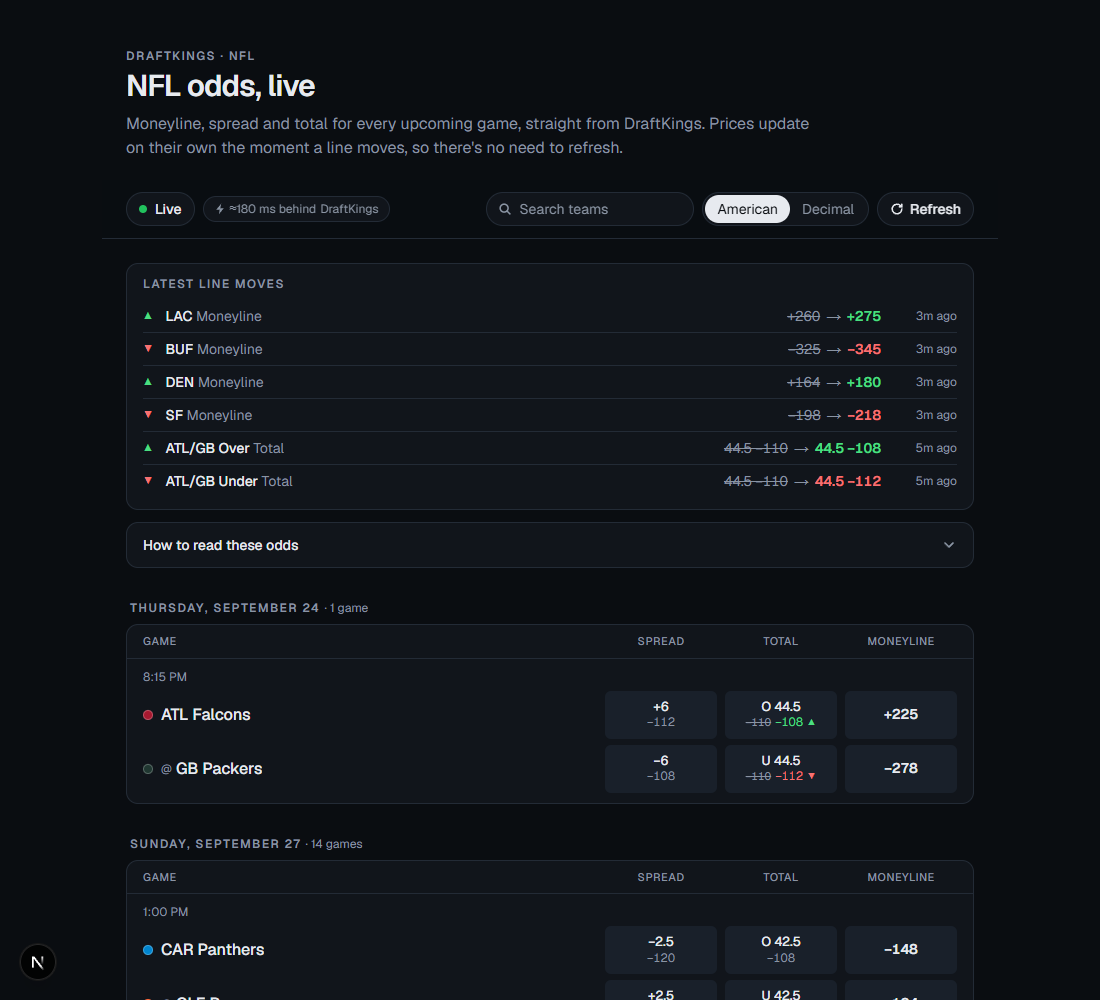
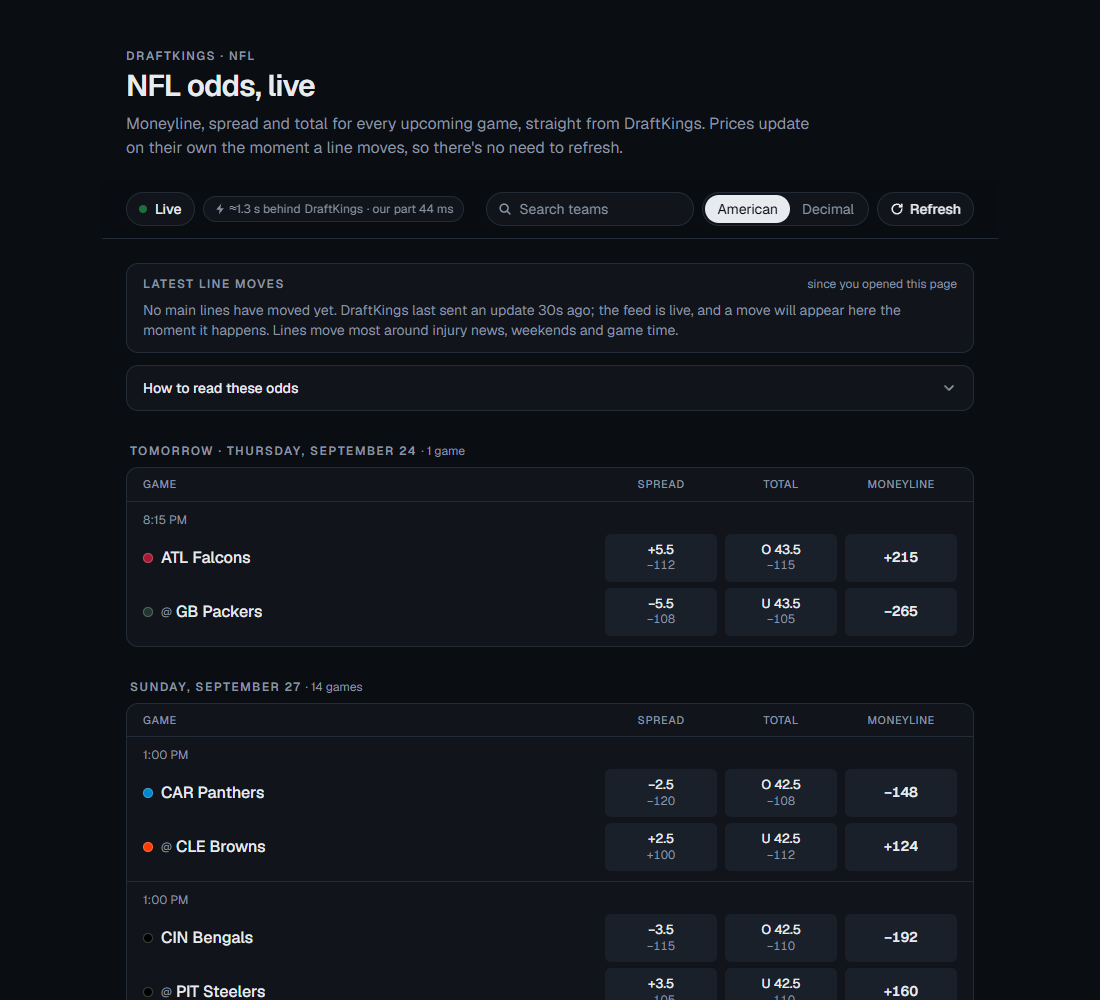
Tidy the README and repo before submission
README: the performance table now uses the live-site sample throughout, so
its stages add up to the 248 ms headline instead of mixing in a local
recording; the audit note no longer refers to an audit it never describes;
Node 20.9+ (Next 16's minimum); the Go client is framed as learning Go, and
the second-sportsbook plan is built around Go workers, ClickHouse and Grafana.

Retake the screenshot from the live site (the old one was from dev mode and
predated the latency badge). Replace the default Next.js favicon, drop the
unused create-next-app SVGs and a duplicate .gitignore entry, and pin
ClickHouse, Grafana and the ClickHouse plugin to the tested versions, using
GF_PLUGINS_PREINSTALL_SYNC instead of the deprecated GF_INSTALL_PLUGINS.

diff --git a/README.md b/README.md
@@ -10,7 +10,7 @@ Live NFL moneyline, spread and total odds from DraftKings, on a page that update
 
 ## Quick start
 
-Requires Node 20+ and git.
+Requires Node 20.9+ and git.
 
 ```bash
 git clone https://github.com/Twoos123/draftkings-live-odds.git
@@ -157,14 +157,14 @@ The page runs the same check continuously (resync corrections under **Feed detai
 
 | Stage | Median | Ours to change? |
 |---|---|---|
-| Inside DraftKings (created → published) | 20 ms (p95 1.4 s) | No |
+| Inside DraftKings (change created → its socket server sends it) | ~200 ms, varying from under 0.1 s to a few seconds | No |
 | DraftKings → Akamai edge → our server | 7 ms on Vercel `iad1` | Already next door to DraftKings' edge |
 | **Server:** raw frame → parse → validate → encode SSE (+ its own board) | **27 µs** (p99 83 µs) | Yes. See below. |
 | Our server → browser | 38 ms from Toronto | Only by removing the hop |
 | **Browser:** delta → rebuild one game → diff → decorate | **12 µs** (p99 31 µs) | Yes |
 
-Our code is about 0.01% of the total, so **rewriting it in Go, moving to Python, or adding multiprocessing wouldn't make the page any fresher**:
-- **Go** might save ~20 µs.
+The millisecond rows are from the live-site sample in [How fresh are the odds](#how-fresh-are-the-odds) and add up to its 248 ms median; the microsecond rows are from `test/perf.test.ts`. Our code is about 0.01% of the total, so **rewriting it in Go, moving to Python, or adding multiprocessing wouldn't make the page any fresher**:
+- **Go** might save ~20 µs. There is a Go client for the same feed in `cmd/dkfeed`, but I wrote it to learn Go, not for speed (see [Go feed client](#go-feed-client-optional)).
 - **Python** would be slower.
 - **Multiprocessing** would add inter-process hops that cost more than the work itself. There's one socket delivering about one message a second, so there's nothing to parallelize.
 
@@ -180,7 +180,7 @@ The other milliseconds worth chasing were outside the per-update path:
 - **Shorter worst case.** If DraftKings' push feed drops, the browser re-checks the board every 5 s (was 10 s) until it's back.
 - **Honest attribution.** The latency badge shows the total *and* "our part" (DraftKings' socket → our server → you, typically ~50 ms). Feed details separates out time spent inside DraftKings before it publishes a change. That's usually ~20 ms, but we've watched it sit at ~3 s for minutes at a time, which would otherwise look like our lag.
 
-**Deliberately not done: racing the REST board against the push feed.** In both audits, DraftKings' REST board sometimes showed a change 2–3 s before DraftKings published it to the push feed (2 of 13 moves in one audit, 1 of 1 in another). Polling REST every couple of seconds from every open page would catch those cases sooner. But it would multiply our requests to DraftKings by 20–30×, per viewer, to shave seconds off a minority of moves. Push-first with a 60 s check is the reasonable trade; the knob is `RECHECK_LIVE_MS` in `src/hooks/useOddsStream.ts` if Betstamp wanted to make it differently.
+**Deliberately not done: racing the REST board against the push feed.** In the audit above, DraftKings' REST board showed 2 of the 13 moves before the push feed did, because DraftKings held those pushes for ~2 s (an earlier audit saw the same on its only move). Polling REST every couple of seconds from every open page would catch those cases sooner. But it would multiply our requests to DraftKings by 20–30×, per viewer, to shave seconds off a minority of moves. Push-first with a 60 s check is the reasonable trade; the knob is `RECHECK_LIVE_MS` in `src/hooks/useOddsStream.ts` if Betstamp wanted to make it differently.
 
 ## Getting the data: what we found
 
@@ -234,7 +234,7 @@ This is mapped to a clean shape (`src/lib/odds/types.ts`): **game → market (mo
 
 ## Running locally
 
-Requires Node 20+.
+Requires Node 20.9+.
 
 ```bash
 git clone https://github.com/Twoos123/draftkings-live-odds.git
@@ -278,7 +278,9 @@ Grafana runs at http://localhost:3001. It opens read-only with no login; use adm
 
 ### Go feed client (optional)
 
-`cmd/dkfeed` is a standalone Go client for the same push feed, for comparison with the Node server. The site doesn't use it. It subscribes to every NFL market, decodes each message into typed structs (`internal/dkfeed`), and logs when the message arrived, how long decoding took, and how long it took to arrive from DraftKings (on DraftKings' clock, as above). On exit it prints parse-time percentiles. It doesn't reconnect: it exits when the connection drops. Needs Go 1.25+.
+`cmd/dkfeed` is a standalone Go client for the same push feed. I wrote it to learn Go, since Betstamp's stack is Go, ClickHouse and Grafana. Speed wasn't the reason: the Node server already handles an update in 27 µs, about 0.01% of the time a move takes to reach your screen (see [Performance](#performance-where-the-milliseconds-go)), so moving the relay to Go wouldn't make the odds any fresher. The site doesn't use it. `internal/dkfeed` is written as a library so it can become the DraftKings adapter in the Go workers described in [Adding a second sportsbook or league](#adding-a-second-sportsbook-or-league).
+
+It subscribes to every NFL market, decodes each message into typed structs (`internal/dkfeed`), and logs when the message arrived, how long decoding took, and how long it took to arrive from DraftKings (on DraftKings' clock, as above). On exit it prints parse-time percentiles. It doesn't reconnect: it exits when the connection drops. Needs Go 1.25+.
 
 ```bash
 go run ./cmd/dkfeed -for 2m     # log each update for two minutes (or until Ctrl+C)
@@ -334,12 +336,20 @@ internal/dkfeed/       Its library: connection + subscription, typed frames, dec
 
 ## Adding a second sportsbook or league
 
-**A second league** is mostly configuration. League id `88808` and subcategory `4518` live in `src/lib/dk/config.ts`. Other leagues use the same endpoints with different ids, though soccer adds a draw side, so `Side` would gain one.
+**A second league** is mostly configuration. League id `88808` and subcategory `4518` live in `src/lib/dk/config.ts` (and in the Go client's `Config.Query`). Other leagues use the same endpoints with different ids, though soccer adds a draw side, so `Side` would gain one. With the workers below, a new league is one more subscription in the DraftKings worker.
 
-**A second sportsbook** needs a new adapter. Everything DraftKings-specific is in `src/lib/dk/`; everything below it (clean types, `BoardEngine`, diffing, moves, SSE, UI, ClickHouse) doesn't know which book it's looking at.
-1. Define a `BookAdapter` interface (`snapshot()`, `subscribe(onDelta)`, `normalize()`) and move today's DK code behind it.
-2. Add a `book` field to games and ticks. Match the same game across books with a canonical id (league + teams + kickoff) instead of each book's event id.
-3. Move ingestion out of the web tier into **always-on workers**, one per book/league, publishing to Redis and writing to ClickHouse. Run them on hosts each book's endpoints accept, and the Vercel app just fans out. That also gives every book a server-side board and full history, not only while someone is watching.
+**A second sportsbook** is where I'd move ingestion to Go, ClickHouse and Grafana. Today one Next.js app does everything, which suits one book and one league but not many:
+
+```
+DraftKings feed ─► Go worker (DK adapter) ─┐
+FanDuel feed    ─► Go worker (FD adapter) ─┼─► Redis pub/sub ─► Vercel: SSE fan-out ─► browsers
+…                                          └─► ClickHouse (every tick, every book) ─► Grafana
+```
+
+1. **One always-on Go worker per book.** Each worker holds that book's connections and reconnects, plus an adapter (`Snapshot`, `Subscribe`, `Normalize`) that maps its raw messages to the clean model: game, market, side, line, odds. `internal/dkfeed` already covers the DraftKings adapter's transport: connection, subscription, typed frames and latency on DraftKings' clock. Go suits long-running feed workers: a goroutine per feed is cheap, and each worker ships as one static binary. Workers run on hosts each book's endpoints accept, which also gives every book a server-side board.
+2. **A book-agnostic model.** Add a `book` field to games and ticks, and match the same game across books with a canonical id (league + teams + kickoff) instead of each book's event id. Everything in `src/lib/odds/` (clean types, `BoardEngine`, diffing, moves) already doesn't know which book it's looking at.
+3. **ClickHouse as the record.** Workers write every tick from every book, with the book's timestamp and ours, around the clock rather than only while someone is watching. Cross-book questions become single queries: which book moved first, and how far behind the others were. The Grafana dashboard gains a `book` variable for latency, moves and missed moves per book.
+4. **The web tier only fans out.** Vercel keeps serving the page and relays from Redis instead of holding book connections, so adding a book doesn't touch the site.
 
 **Where AI and tooling help it scale:**
 - **Finding and mapping feeds.** The slow part of adding a book is what was done here by hand: watching the Network tab, reading the client JS for the protocol, and working out the delta semantics. An agent with a browser can capture a HAR, propose endpoints and a draft adapter plus schema, and turn captured traffic into test fixtures the way `test/fixtures/` works here.
